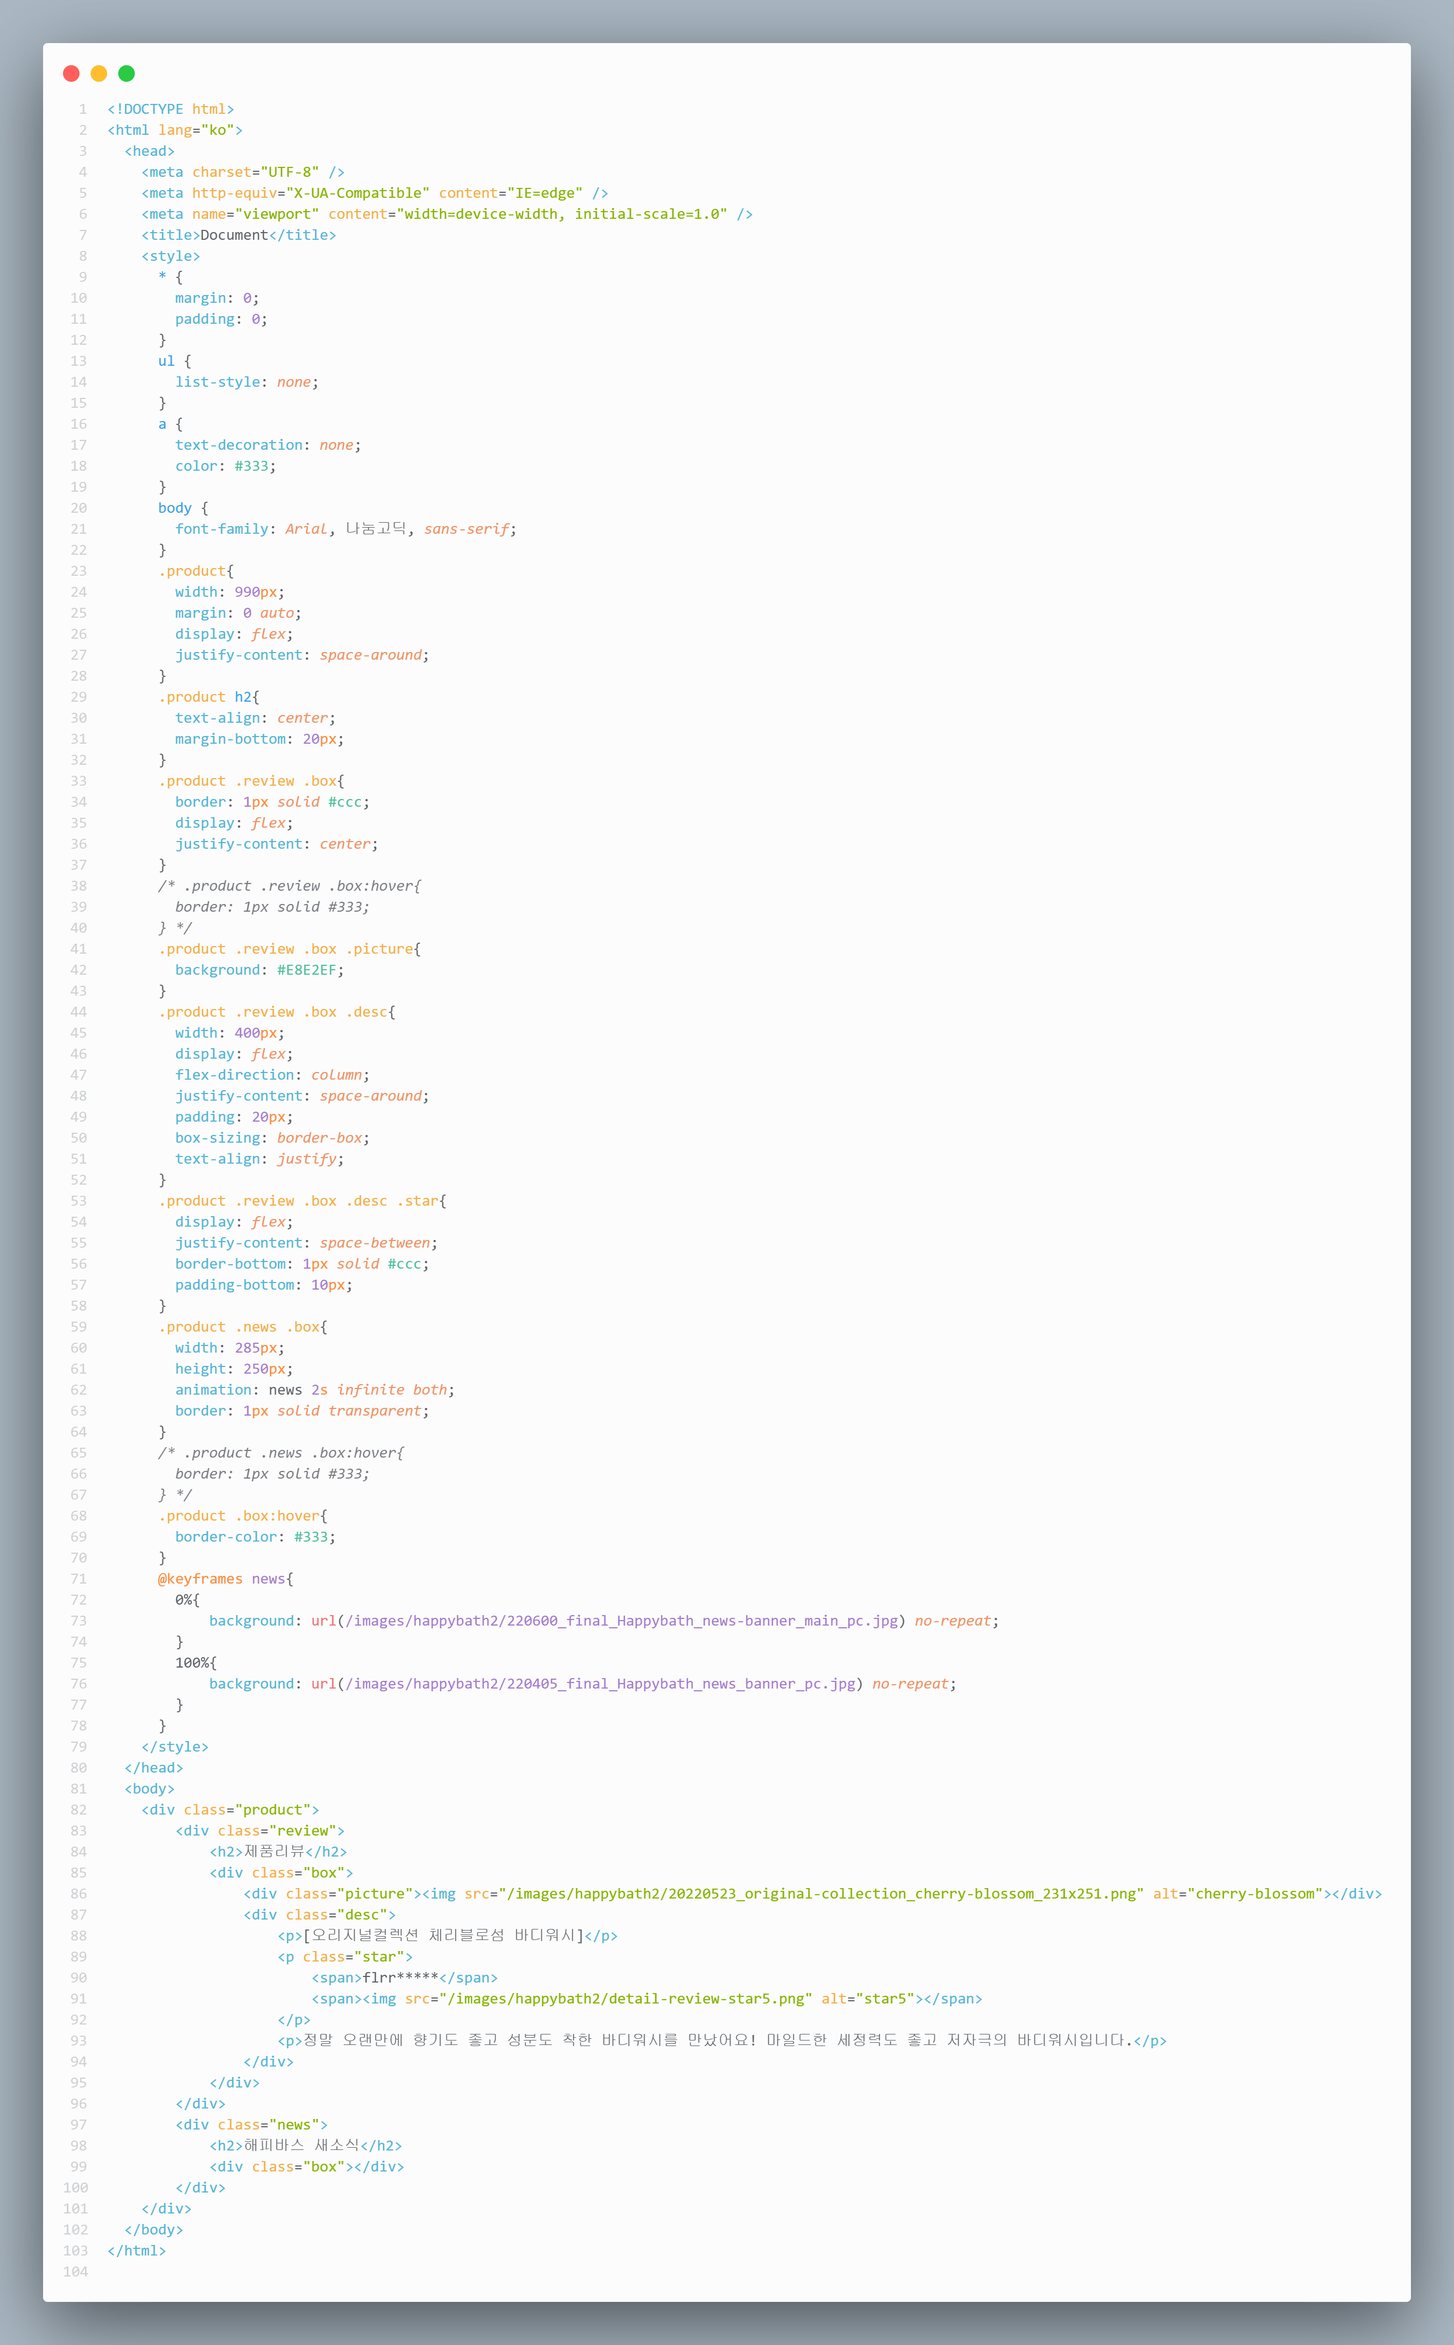
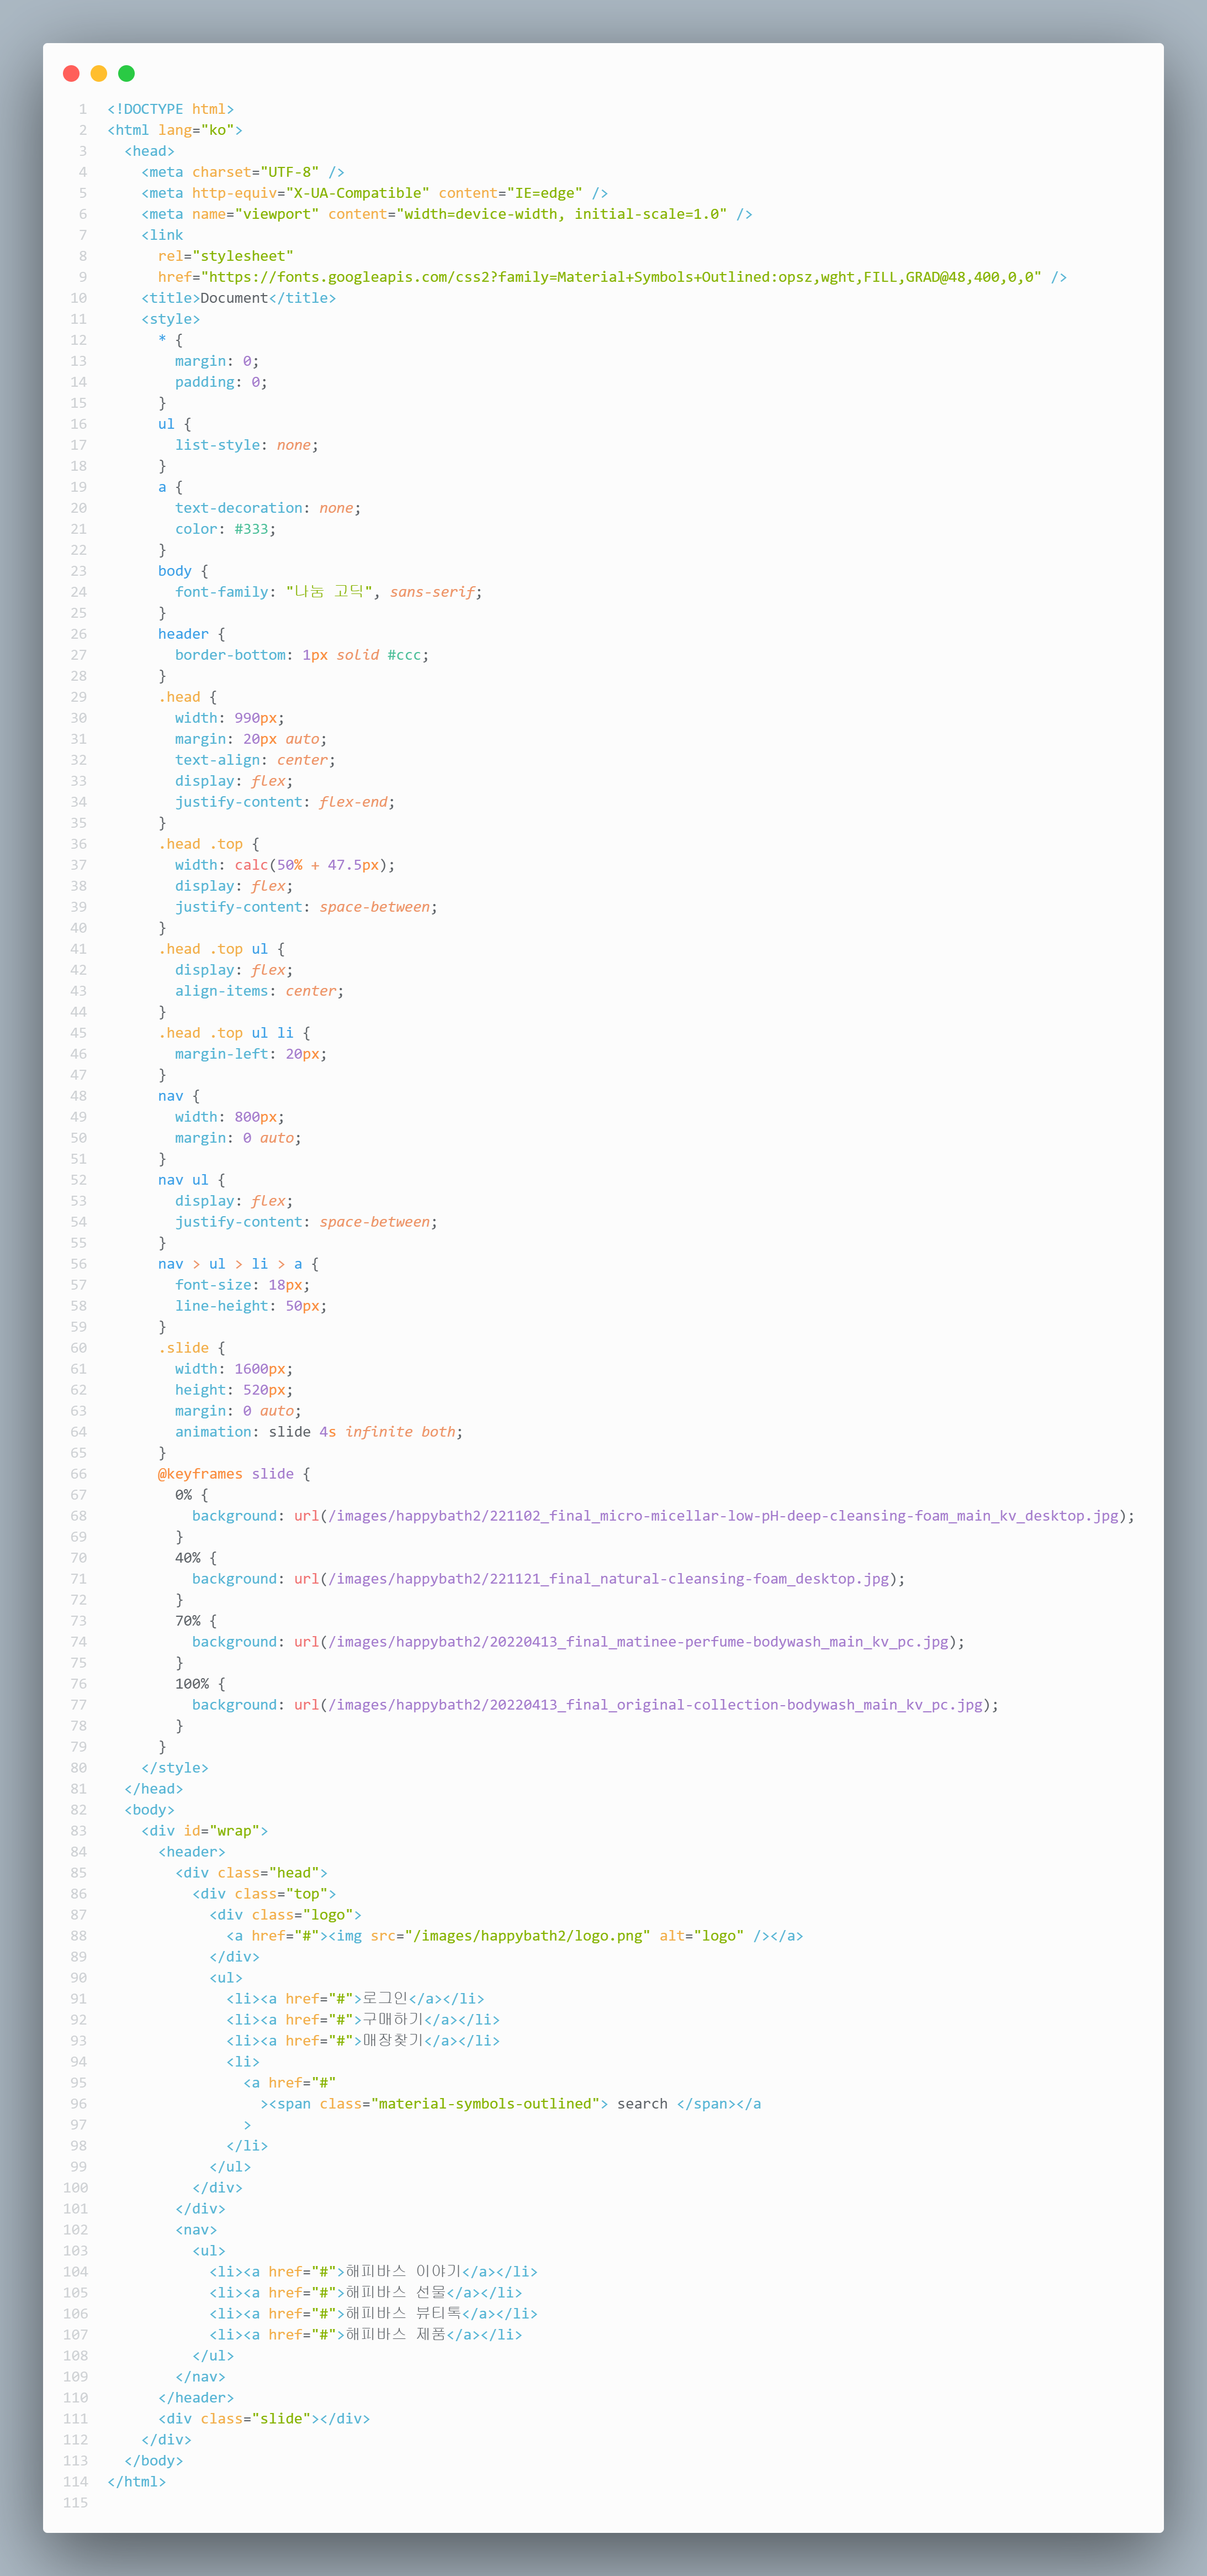
happbath2

diff --git a/images/happybath2/0727_01_top.html b/images/happybath2/0727_01_top.html
@@ -1,0 +1,114 @@
+<!DOCTYPE html>
+<html lang="ko">
+  <head>
+    <meta charset="UTF-8" />
+    <meta http-equiv="X-UA-Compatible" content="IE=edge" />
+    <meta name="viewport" content="width=device-width, initial-scale=1.0" />
+    <link
+      rel="stylesheet"
+      href="https://fonts.googleapis.com/css2?family=Material+Symbols+Outlined:opsz,wght,FILL,GRAD@48,400,0,0" />
+    <title>Document</title>
+    <style>
+      * {
+        margin: 0;
+        padding: 0;
+      }
+      ul {
+        list-style: none;
+      }
+      a {
+        text-decoration: none;
+        color: #333;
+      }
+      body {
+        font-family: "나눔 고딕", sans-serif;
+      }
+      header {
+        border-bottom: 1px solid #ccc;
+      }
+      .head {
+        width: 990px;
+        margin: 20px auto;
+        text-align: center;
+        display: flex;
+        justify-content: flex-end;
+      }
+      .head .top {
+        width: calc(50% + 47.5px);
+        display: flex;
+        justify-content: space-between;
+      }
+      .head .top ul {
+        display: flex;
+        align-items: center;
+      }
+      .head .top ul li {
+        margin-left: 20px;
+      }
+      nav {
+        width: 800px;
+        margin: 0 auto;
+      }
+      nav ul {
+        display: flex;
+        justify-content: space-between;
+      }
+      nav > ul > li > a {
+        font-size: 18px;
+        line-height: 50px;
+      }
+      .slide {
+        width: 1600px;
+        height: 520px;
+        margin: 0 auto;
+        animation: slide 4s infinite both;
+      }
+      @keyframes slide {
+        0% {
+          background: url(/images/happybath2/221102_final_micro-micellar-low-pH-deep-cleansing-foam_main_kv_desktop.jpg);
+        }
+        40% {
+          background: url(/images/happybath2/221121_final_natural-cleansing-foam_desktop.jpg);
+        }
+        70% {
+          background: url(/images/happybath2/20220413_final_matinee-perfume-bodywash_main_kv_pc.jpg);
+        }
+        100% {
+          background: url(/images/happybath2/20220413_final_original-collection-bodywash_main_kv_pc.jpg);
+        }
+      }
+    </style>
+  </head>
+  <body>
+    <div id="wrap">
+      <header>
+        <div class="head">
+          <div class="top">
+            <div class="logo">
+              <a href="#"><img src="/images/happybath2/logo.png" alt="logo" /></a>
+            </div>
+            <ul>
+              <li><a href="#">로그인</a></li>
+              <li><a href="#">구매하기</a></li>
+              <li><a href="#">매장찾기</a></li>
+              <li>
+                <a href="#"
+                  ><span class="material-symbols-outlined"> search </span></a
+                >
+              </li>
+            </ul>
+          </div>
+        </div>
+        <nav>
+          <ul>
+            <li><a href="#">해피바스 이야기</a></li>
+            <li><a href="#">해피바스 선물</a></li>
+            <li><a href="#">해피바스 뷰티톡</a></li>
+            <li><a href="#">해피바스 제품</a></li>
+          </ul>
+        </nav>
+      </header>
+      <div class="slide"></div>
+    </div>
+  </body>
+</html>

diff --git a/images/happybath2/0727_04_footer.html b/images/happybath2/0727_04_footer.html
@@ -20,6 +20,50 @@
       body {
         font-family: Arial, 나눔고딕, sans-serif;
       }
+      .foot_sns{
+        background: #f8f8f8;
+      }
+      .foot_sns ul{
+        display: flex;
+        justify-content: center;
+      }
+      .foot_bottom{
+        position: relative;
+        width: 1000px;
+        margin: 0 auto;
+        height: 100px;
+        display: flex;
+        justify-content: center;
+        align-items: center;
+      }
+      .foot_bottom .foot{
+        height: 60%;
+        display: flex;
+        flex-direction: column;
+        justify-content: space-between;
+        align-items: center;
+      }
+      .foot_bottom .foot ul{
+        display: flex;
+        font-size: 13px;
+      }
+      .foot_bottom .foot p{
+        font-size: 12px;
+      }
+      .foot_bottom .foot ul li::after{
+        content: "|";
+        padding: 0 10px;
+      }
+      .foot_bottom .foot ul li:last-child::after{
+        content: "";
+      }
+      .foot_bottom img{
+        position: absolute;
+        right: 0;
+        top: 50%;
+        transform: translateY(-50%);
+        width: 66px;
+      }
     </style>
   </head>
   <body>
@@ -40,7 +84,13 @@
                     <li><a href="#">뷰티포인트</a></li>
                     <li><a href="#">사이트맵</a></li>
                 </ul>
+                <ul>
+                    <li>고객상담팀(수신자 요금 부담) 080-023-5454</li>
+                    <li>상담시간 월~금 : AM 09:00 ~ PM 06:00</li>
+                </ul>
+                <p>© AMOREPACIFIC CORPORATION. All rights reserved.</p>
             </div>
+            <img src="/images/happybath2/img_wa_20221129.png" alt="wa">
         </div>
     </footer>
   </body>
